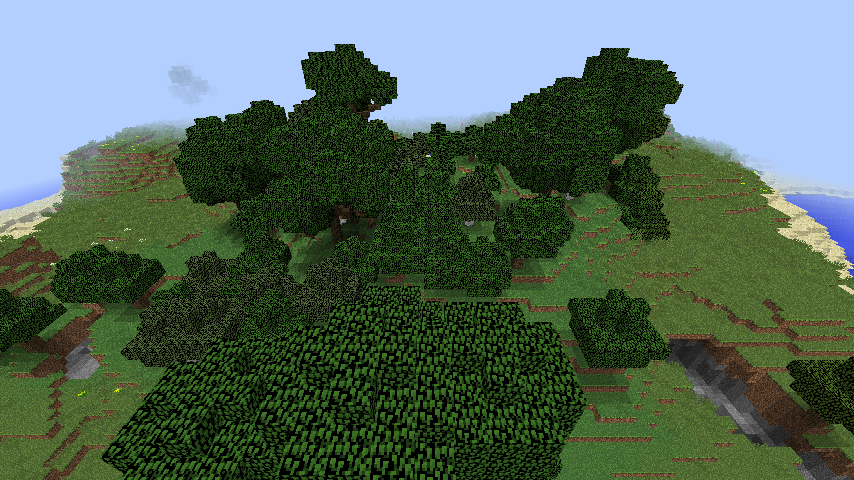
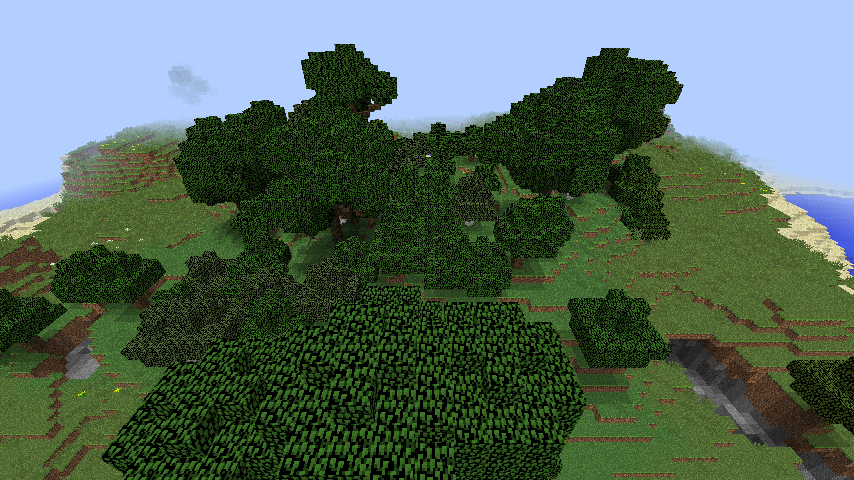
chore(verify): refresh candidate frames + smoke_zombie report after overnight render fixes
Regenerated by the post-restructure sweep; committed frames predated the
slab/pane/stair/ladder fixes. Harsh gate and tape gate both PASS.

diff --git a/verify/trace/report/tape_scenario_smoke_zombie_20260722T081735Z.md b/verify/trace/report/tape_scenario_smoke_zombie_20260722T081735Z.md
@@ -25,7 +25,7 @@
 | 20 | 0.52 | 48.90% | 0.65 |
 | 40 | 0.46 | 51.93% | 0.54 |
 | 60 | 0.33 | 46.42% | 0.31 |
-| 80 | 0.27 | 45.17% | 0.26 |
+| 80 | 0.27 | 45.18% | 0.26 |
 | 100 | 0.27 | 45.16% | 0.27 |
 | 120 | 0.26 | 44.29% | 0.26 |
 | 140 | 0.27 | 45.10% | 0.26 |
@@ -35,7 +35,7 @@
 | 220 | 0.26 | 45.89% | 0.26 |
 | 240 | 0.28 | 46.10% | 0.27 |
 | 260 | 0.30 | 46.03% | 0.27 |
-| 280 | 0.42 | 46.87% | 0.28 |
-| 300 | 0.41 | 46.94% | 0.27 |
+| 280 | 0.42 | 46.88% | 0.28 |
+| 300 | 0.41 | 46.95% | 0.27 |
 | 320 | 0.36 | 45.58% | 0.30 |
 | 340 | 0.47 | 48.88% | 0.42 |
